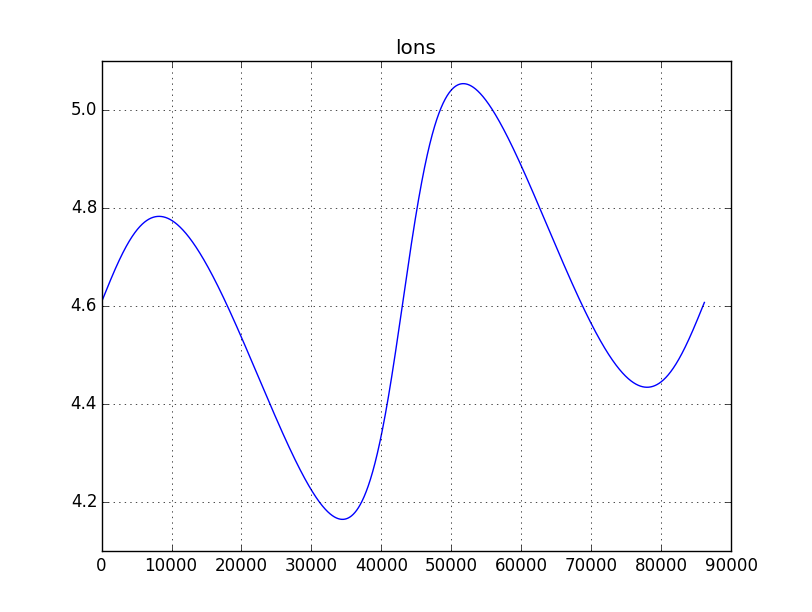
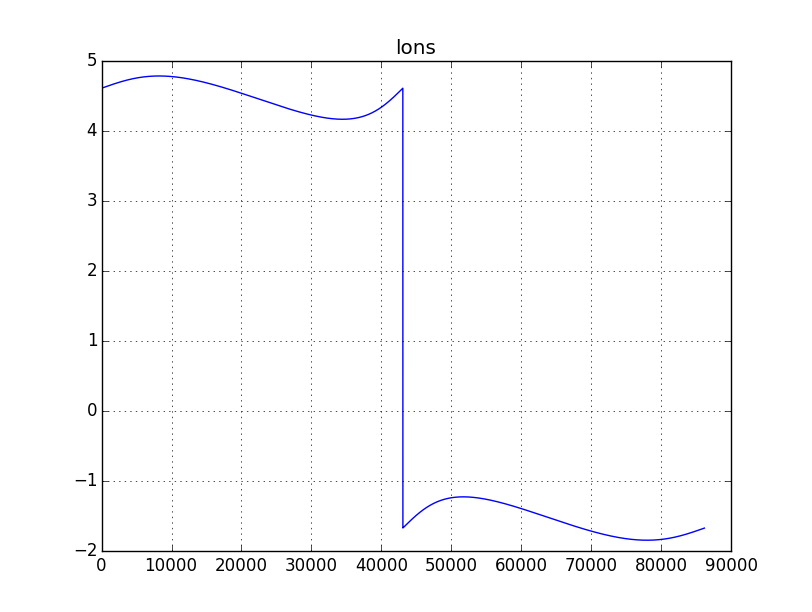
fuck it, i give up

diff --git a/HW2/simulateSSP.py b/HW2/simulateSSP.py
@@ -1,4 +1,4 @@
-#/usr/bin/python3
+ #/usr/bin/python3
 import numpy as np
 import matplotlib.pyplot as plt
 import math
@@ -14,21 +14,22 @@ import pdb
 earthRotVelRadSec = 7.2921159e-5 # rad/sec
 pi2 = 2 * np.pi
 initialSSPLat = 63.4  # degrees
-initialSSPLon = 360 - 96.0  # degrees
+initialSSPLon = 360-96.0  # degrees
 
 
 def getCart3D(rn, thetaN, phi):
     XnewArr = []
     YnewArr = []
     ZnewArr = []
-    for radius, angle in zip(rn, thetaN):
-        c = radius * np.exp(angle * 1j)
-        Xold = np.real(c)
-        Yold = np.imag(c)
+    for radius, theta in zip(rn, thetaN):
+        print "radius", radius, "theta", theta
+        Xold = radius * math.cos(theta)
+        Yold = radius * math.sin(theta)
         # these are backwards? according to the help file, this is right.
         #HOwever, the math says x is the real part and z is the imaginary
         # I'm not sure what to do here, so I'll leave it like this for now
         # Things definitely don't work when this is "correct"
+        # pdb.set_trace()
         ZnewArr.append(np.real(Xold * np.exp(phi * 1j)))
         YnewArr.append(Yold)
         XnewArr.append(np.imag(Xold * np.exp(phi * 1j)))
@@ -38,10 +39,11 @@ def getCart3D(rn, thetaN, phi):
 def convertXYZToLatLon(x, y, z, secsFromApogee):
     r = math.sqrt(x * x + y * y + z * z)
     # LAT in rad does NOT change as earth rotates. [0, pi]
-    lat =  -1*(math.acos(z / r)) + math.radians(initialSSPLat) +.57#+ np.pi # ((math.degrees(math.acos(z / r)) + initialSSPLat) % 360) - 180
+    lat = np.pi/2.0 - (math.acos(z / r)) #+ math.radians(initialSSPLat) +.57#+ np.pi # ((math.degrees(math.acos(z / r)) + initialSSPLat) % 360) - 180
     # lat = math.degrees(lat)
     # LON in rad DOES change as earth rotates. [0, 2pi]
-    lon = (math.atan2(y, x) % pi2) - earthRotVelRadSec * secsFromApogee + math.radians(initialSSPLon)#(math.degrees(math.atan2(y, x))  + initialSSPLon - earthRotVelRadSec * secsFromApogee ) % 360
+    arctan = math.atan2(y, x)
+    lon = (arctan - earthRotVelRadSec * secsFromApogee + math.radians(initialSSPLon))% pi2 #(math.degrees(math.atan2(y, x))  + initialSSPLon - earthRotVelRadSec * secsFromApogee ) % 360
     return lat, lon
 
 
@@ -54,7 +56,7 @@ def calcGamma(Le, le, Ls, ls):
 def calcElevationAngle(gamma, re, rs):
     denom = math.sqrt(1 + ((re / rs)**2) - 2 * (re / rs) * math.cos(gamma))
     cosEl = math.sin(gamma) / denom
-    print "elevation in rad", math.acos(cosEl)
+    # print "elevation in rad", math.acos(cosEl)
     El = math.degrees(math.acos(cosEl))
     return El
 
@@ -77,7 +79,7 @@ def calcAzimuth(Le, le, Ls, ls, gamma):
     sinalpha = math.sin(math.fabs(le - ls)) * math.cos(Ls) / math.sin(gamma)
     alpha = math.degrees(math.asin(sinalpha))
     compass = getSSPRelativityToES(Le, le, Ls, ls)
-    print "compass", compass, "alpha", alpha
+    # print "compass", compass, "alpha", alpha
     if compass == "NE":
         return alpha
     elif compass == "SW":

diff --git a/HW2/simulateOrbit.py b/HW2/simulateOrbit.py
@@ -13,7 +13,7 @@ Vtheta = 2.74109  # km/s
 G = 6.672e-20  # km^3 / kg*s^2
 Mp = 5.974e24  # earth 5.974e24 #kg
 
-deltaTSec = 10.0
+deltaTSec = 1.0
 
 rn = [r]  # km
 thetaN = [theta]  # degrees
@@ -43,7 +43,7 @@ def deltaThetaNPlus1(deltaThetaN, deltaRn, rn):
     return term1 - term2
 
 
-timeVector = np.arange(0, 86165, deltaTSec)
+timeVector = np.arange(0, 86164, deltaTSec)
 for x in list(timeVector):  # 3.154e7
     rn.append(rn[-1] + deltaRn[-1])
     thetaN.append(thetaN[-1] + deltaThetaN[-1])
@@ -85,6 +85,11 @@ xarr, yarr, zarr = simulateSSP.getCart3D(rn, thetaN, phi)
 # simulateSSP.plotThisMotherfucker(timeVector, xarr, "X values")
 # simulateSSP.plotThisMotherfucker(timeVector, yarr, "Y values")
 # simulateSSP.plotThisMotherfucker(timeVector, zarr, "Z values")
+from mpl_toolkits.mplot3d import Axes3D
+fig = plt.figure()
+ax = fig.add_subplot(111, projection='3d')
+ax.plot(xarr, yarr, zs = zarr, label='XYZ plot in 3D')
+plt.show()
 
 elevationAngles = []
 azimuthAngles = []
@@ -103,7 +108,7 @@ for x, y, z, satRadius in zip(xarr, yarr, zarr, rn):
     gammas.append(gamma)
     # horizon check
     # pdb.set_trace()
-    print "gamma", gamma, "math.acos", math.acos(earthRadius / satRadius)
+    # print "gamma", gamma, "math.acos", math.acos(earthRadius / satRadius)
     if gamma <= math.acos(earthRadius / satRadius):
         El = simulateSSP.calcElevationAngle(gamma, earthRadius, satRadius)
         Az, alpha = simulateSSP.calcAzimuth(Le, le, Ls, ls, gamma)
